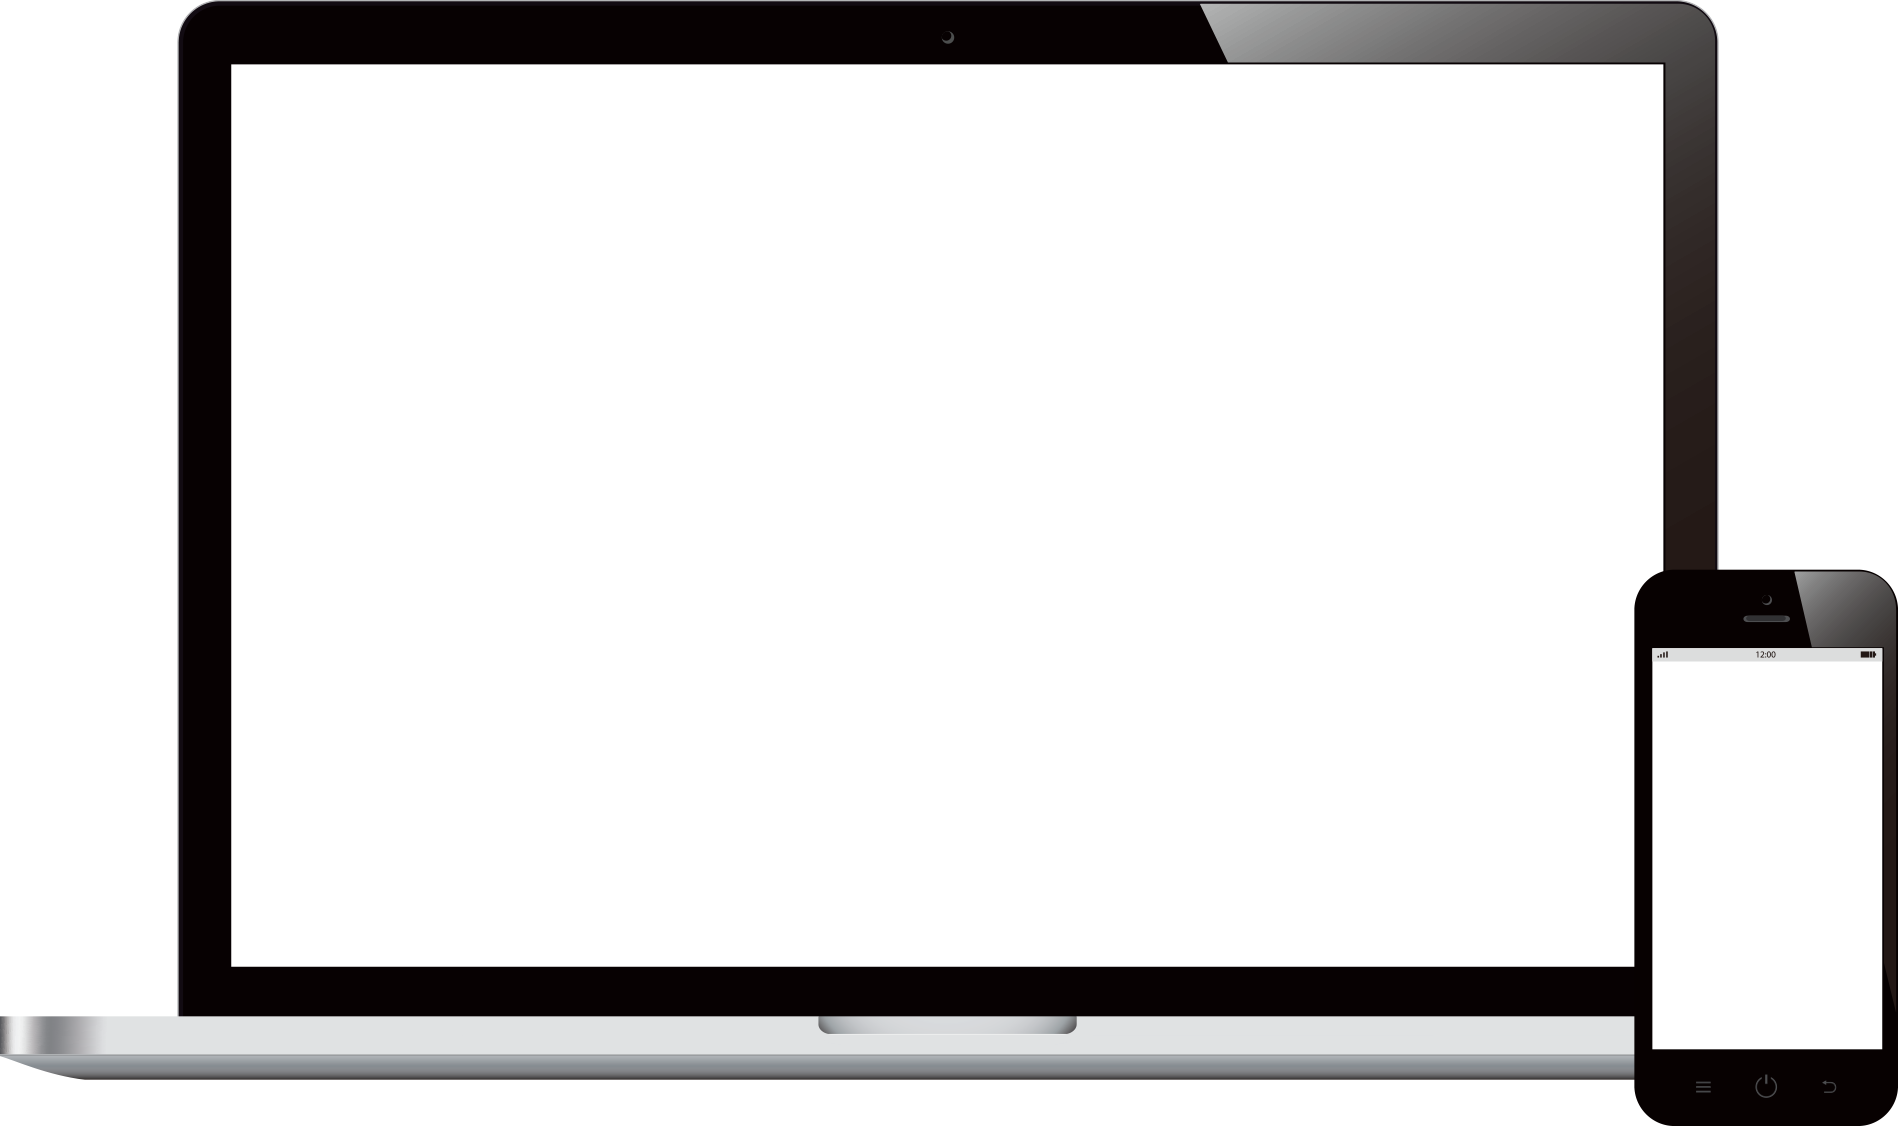
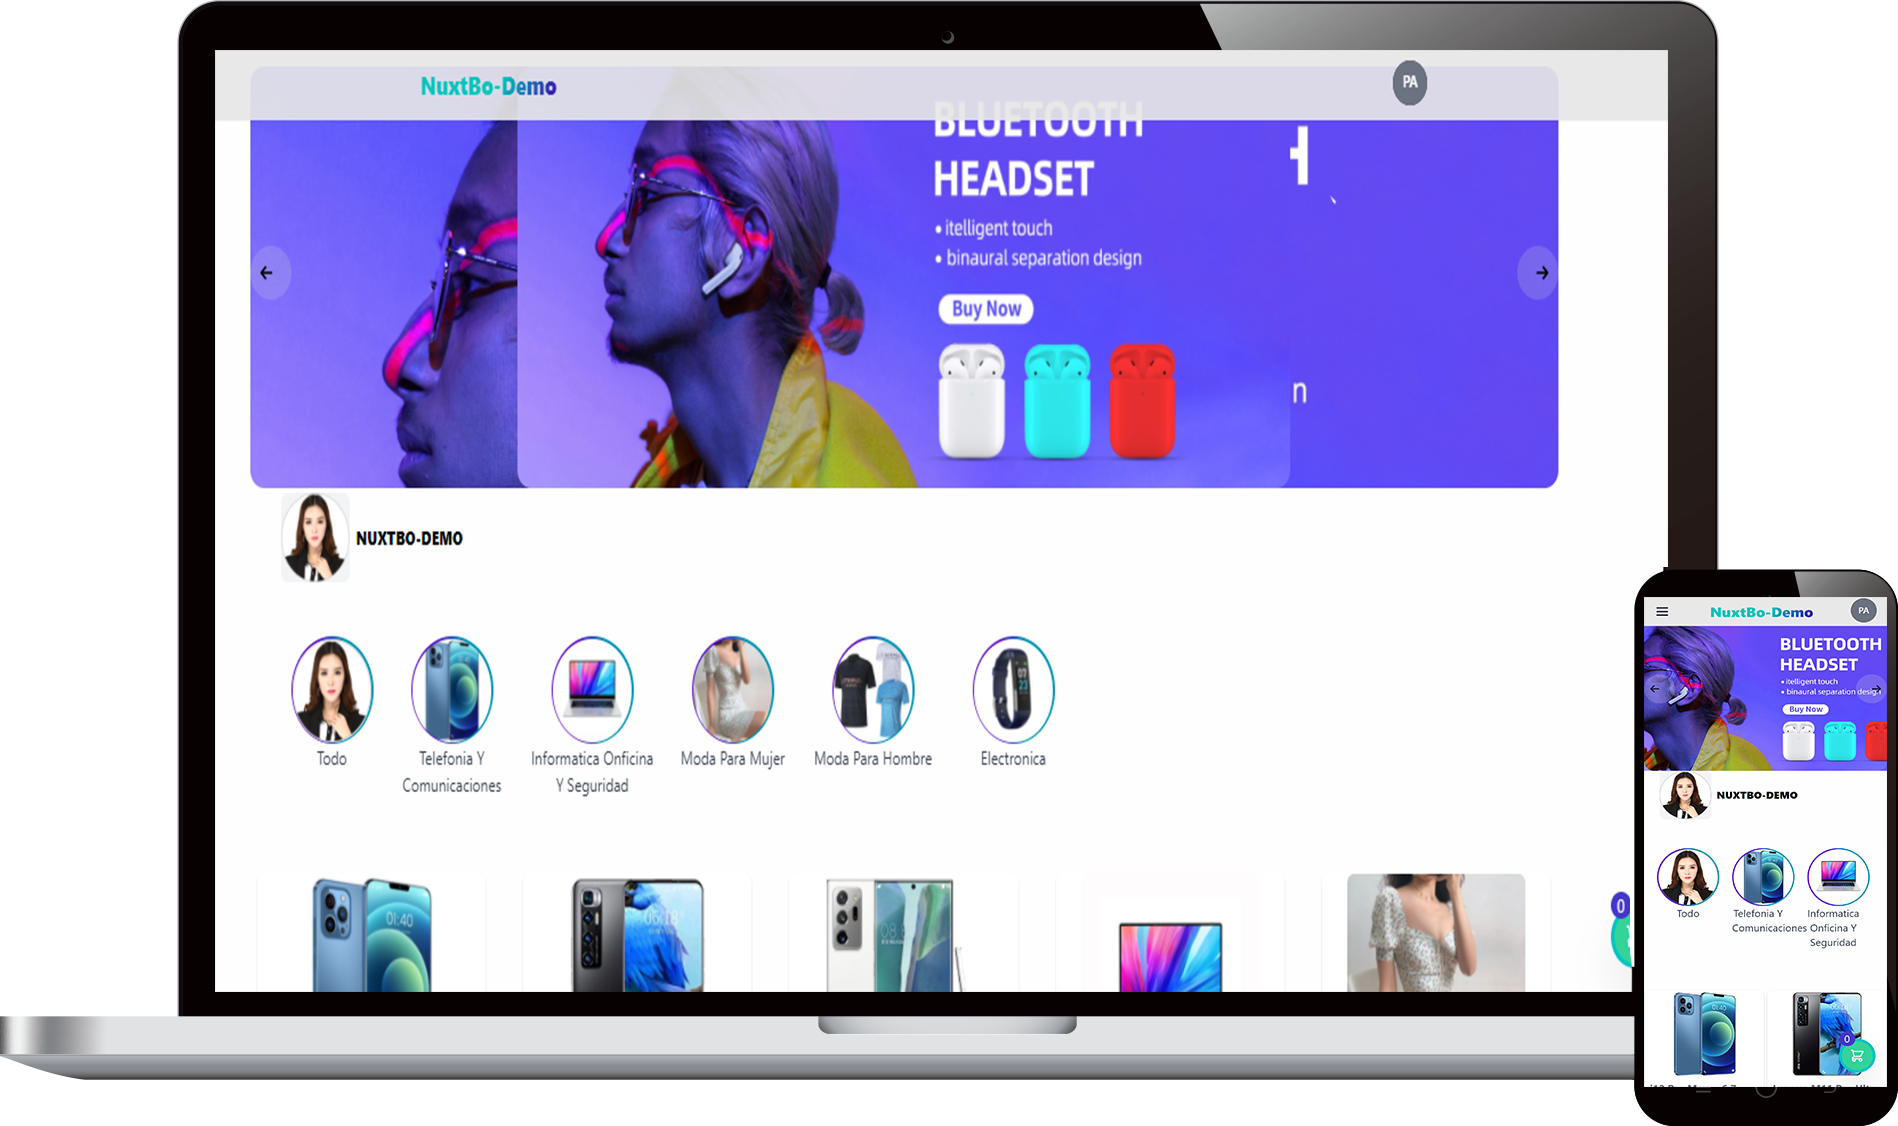
gif demo add

diff --git a/src/components/body/bodyCotend.js b/src/components/body/bodyCotend.js
@@ -1,11 +1,12 @@
 import React,{useState, useEffect} from 'react';
 import {motion} from 'framer-motion';
-import iphoneImg from '../../assets/iphone.png';
+import iphoneImg from '../../assets/iphoneSinNoch.png';
 import subirCatalogos from '../../assets/subirCatalogos.png';
 import imgLaptopAndImage from '../../assets/laptopAndMobile.png';
 import imgMobileOwner from '../../assets/mobileOwner.png';
 import './bodyContend.css'
 import FormContactUs from '../contactUs/formContactUse/formContactUs';
+import srcGif  from '../../assets/9012.gif'
 import { Link } from 'react-router-dom';
 
 
@@ -26,7 +27,7 @@ const BodyContent =()=>{
                 <div className="flex flex-col sm:flex-row  justify-between">
                     <div className="w-full sm:w-2/4  mt-10 sm:mt-40  sm:mx-10">
                         <motion.div initial={{opacity:0}} animate={{opacity:1}} transition={{duration:0.6}} className="h-full font-bold">
-                            <h1  className="text-gray-800 text-4xl sm:text-5xl font-black"><span id="text-online" className="text-green-400">Vende en linea</span>  y recibe los pedidos en tu <span className="text-green-600">Whatsapp</span> </h1>
+                            <h1  className="text-gray-800 text-4xl sm:text-5xl font-black"><span id="text-online" className="text-green-400">Vende en linea</span>  y recibe los pedidos en tu <span id="text-online" className="text-green-500">Whatsapp</span> </h1>
                             <h2 className="text-gray-500 text-lg mt-4">Toma el control de tus ventas y obten 100% de tus ingresos</h2>
                             <h3 className="text-gray-500 text-lg">Crea tu catalogo de porductos o una tienda en linea</h3>
                             <div className="hidden sm:inline">
@@ -39,9 +40,14 @@ const BodyContent =()=>{
                         </motion.div>
                     </div>
                     <div className="w-full sm:w-2/4">
-                        <motion.div initial={{opacity:0,x:-200}} animate={{opacity:1, x:0}} transition={{duration:1.0}} className="mx-auto">
-                            <img className="mx-auto" src={iphoneImg} width="300" height="300" alt="" />
-
+                        <motion.div id="content-demo" initial={{opacity:0,x:-200}} animate={{opacity:1, x:0}} transition={{duration:1.0}} className="mx-auto">
+                            <div id="container">
+                                <div id="content-img-demo">
+                                    <img  className="mx-auto" src={iphoneImg} width="280" height="400" alt="" />
+                                </div>
+                                <img src={srcGif} className="mx-auto pt-4" width="258" height="400" alt="" />
+                                {/* <video  className="mx-auto my-auto pt-5"  width="260" height="800"  autoPlay loop src={srcViddeo} /> */}
+                            </div>
                         </motion.div>
 
                         <div  className="flex justify-center sm:hidden mt-10">
@@ -253,6 +259,10 @@ const BodyContent =()=>{
              
                 </div>
                 </div>
+            </section>
+
+            <section>
+     
             </section>
 
             {/* form contact us */}

diff --git a/src/components/body/bodyContend.css b/src/components/body/bodyContend.css
@@ -132,10 +132,10 @@
 /* section 1 */
 
 
-#section-1{
-    background:rgba(243, 243, 243, 0.493);
-    z-index: 1;
-}
+/* #section-1{
+    background:rgba(243, 243, 243, 0.726);
+    z-index: -1;
+} */
 /* ******* */
 
 /* espera 2 */ 
@@ -357,3 +357,20 @@ background-image: linear-gradient(185deg, #ed1543 0%, #9c0000 100%);
 
   
 /* ------------- */
+
+
+/* content video demo */
+
+#content-demo #container{
+    position: relative;
+}
+
+#container #content-img-demo{
+    position: absolute;
+    width: 100%;
+    z-index: 10; 
+}
+
+
+
+/* ------------------- */

diff --git a/public/index.html b/public/index.html
@@ -16,6 +16,10 @@
     -->
     <link rel="manifest" href="%PUBLIC_URL%/manifest.json" />
     <link href="https://unpkg.com/tailwindcss@^2/dist/tailwind.min.css" rel="stylesheet">
+
+    <!-- stripe configuration -->
+
+
     <!--
       Notice the use of %PUBLIC_URL% in the tags above.
       It will be replaced with the URL of the `public` folder during the build.
